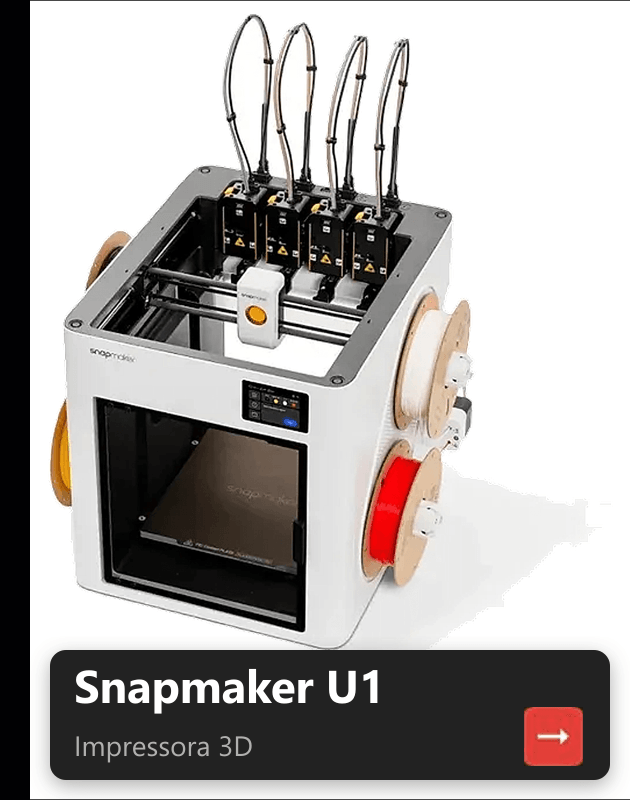
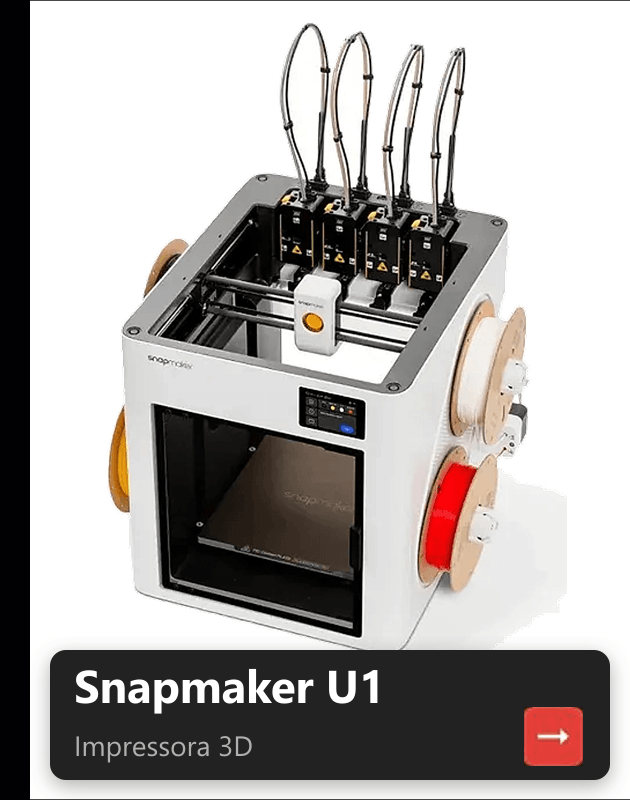
fix: perfectly center Snapmaker U1 machine optically in catalog card

diff --git a/src/data/products.js b/src/data/products.js
@@ -294,7 +294,7 @@ const BASE_PRODUCTS = [
     installmentValue: 915.83,
     pixDiscountPercent: 10,
     pixPrice: 9891.00,
-    image: '/images/printer-snapmaker-u1.png?v=card2',
+    image: '/images/printer-snapmaker-u1.png?v=card3',
     badge: 'BLACK NOVEMBER −15%',
     promoTag: 'black-november',
     rating: 5.0,

diff --git a/src/components/BlackFridayBanner.jsx b/src/components/BlackFridayBanner.jsx
@@ -20,7 +20,7 @@ const FEATURED_MACHINES = [
     discount: '-15%',
     oldPrice: 'R$ 12.990,00',
     price: 'R$ 10.990,00',
-    image: '/images/printer-snapmaker-u1.png?v=card2',
+    image: '/images/printer-snapmaker-u1.png?v=card3',
     neonColor: 'rgba(234, 179, 8, 0.9)',
     neonBorder: '#eab308',
   },
